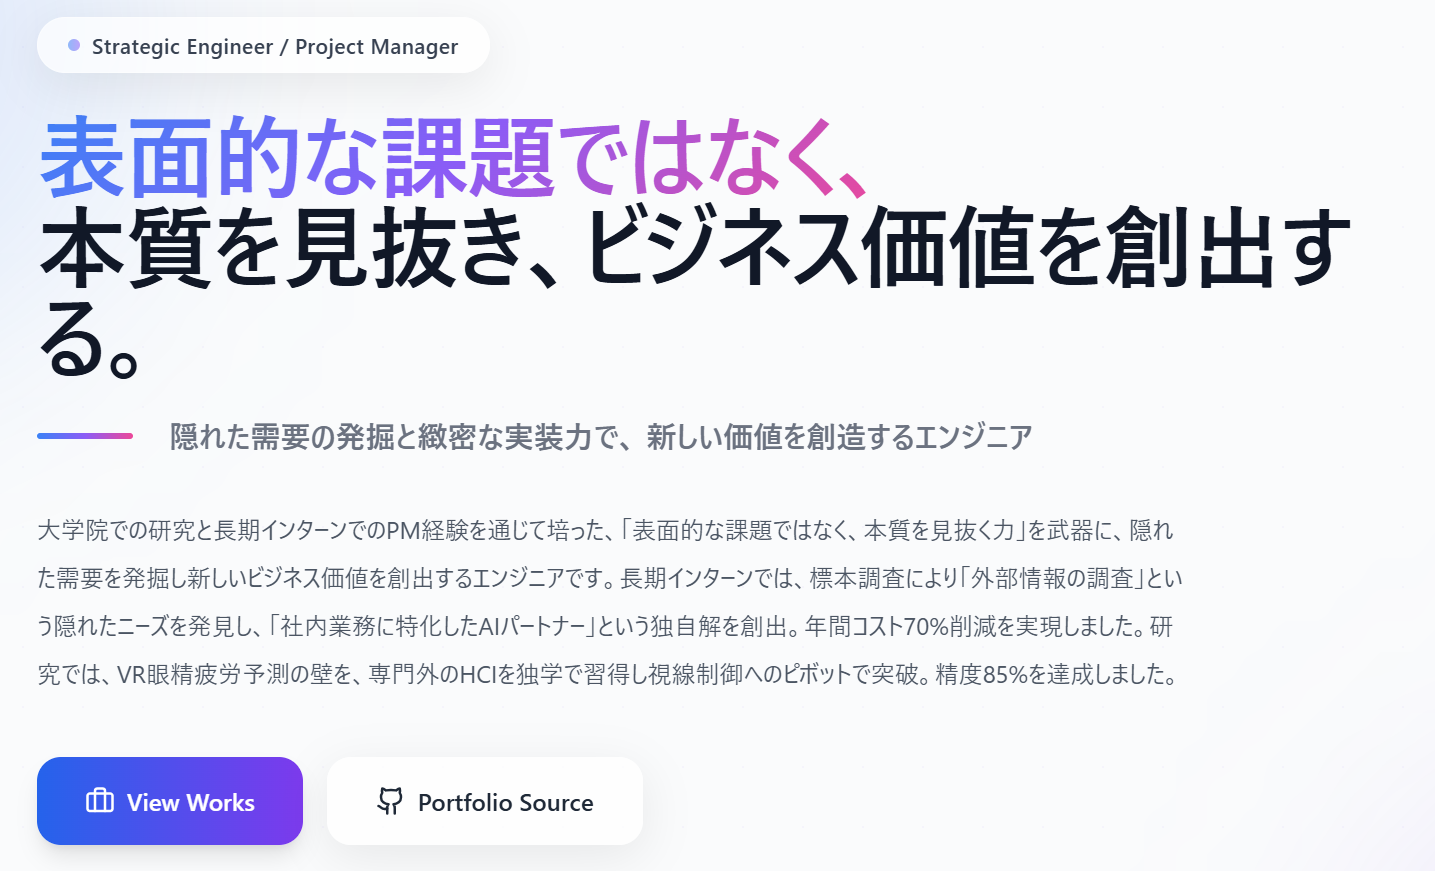
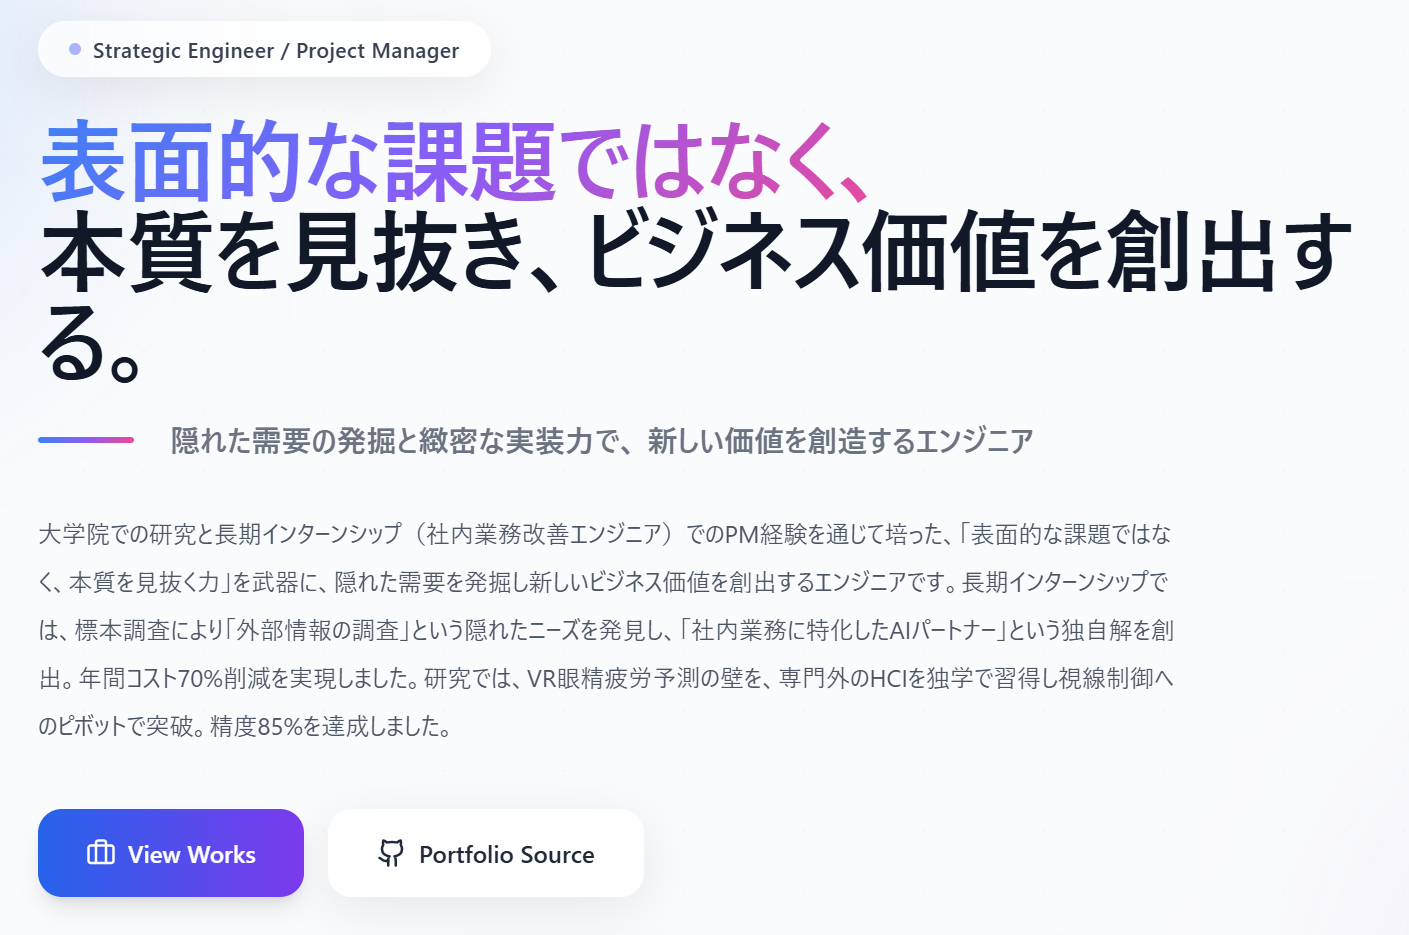
feat: README.mdとApp.jsxの内容を更新
README.mdの見出しやテーブルのフォーマットを改善し、可読性を向上させました。また、App.jsxではGitHubリンクを修正し、自己紹介の内容を最新の情報に更新しました。ポートフォリオデータの整備を行い、より明確な自己アピールを実現しました。

diff --git a/src/App.jsx b/src/App.jsx
@@ -10,12 +10,12 @@ const portfolioData = {
     sub: "隠れた需要の発掘と緻密な実装力で、\n新しい価値を創造するエンジニア"
   },
   social: {
-    github: "https://github.com/takutaku14",
+    github: "https://github.com/takutaku14/portforio-app",
     email: "mailto:your-email@example.com"
   },
   about: {
-    summary: "大学院での研究と長期インターンでのPM経験を通じて培った、「表面的な課題ではなく、本質を見抜く力」を武器に、隠れた需要を発掘し新しいビジネス価値を創出するエンジニアです。長期インターンでは、標本調査により「外部情報の調査」という隠れたニーズを発見し、「社内業務に特化したAIパートナー」という独自解を創出。年間コスト70%削減を実現しました。研究では、VR眼精疲労予測の壁を、専門外のHCIを独学で習得し視線制御へのピボットで突破。精度85%を達成しました。",
-    introduction: "私の原動力は、「表面的な課題ではなく、本質を見抜く力」です。大学院での視線解析の研究では、瞳孔計測の精度限界に直面した際、表面的な解決策（精度向上）ではなく本質的な原因（視線制御の劣化）に着目。専門外のHCIを独学で習得し、アプローチを転換して精度85%を達成しました。長期インターンでは、標本調査により「外部情報の調査」という隠れたニーズを発掘し、独自解の創出でコスト70%削減を実現しました。異なる分野でも、データに基づく仮説検証と論理的な戦略立てで本質を見抜き、確実に結果を出す「没頭力」と「緻密な計画性」を持ちます。",
+    summary: "大学院での研究と長期インターンシップ（社内業務改善エンジニア）でのPM経験を通じて培った、「表面的な課題ではなく、本質を見抜く力」を武器に、隠れた需要を発掘し新しいビジネス価値を創出するエンジニアです。長期インターンシップでは、標本調査により「外部情報の調査」という隠れたニーズを発見し、「社内業務に特化したAIパートナー」という独自解を創出。年間コスト70%削減を実現しました。研究では、VR眼精疲労予測の壁を、専門外のHCIを独学で習得し視線制御へのピボットで突破。精度85%を達成しました。",
+    introduction: "私の原動力は、「表面的な課題ではなく、本質を見抜く力」です。大学院での視線解析の研究では、瞳孔計測の精度限界に直面した際、表面的な解決策（精度向上）ではなく本質的な原因（視線制御の劣化）に着目。専門外のHCIを独学で習得し、アプローチを転換して精度85%を達成しました。長期インターンシップでは、標本調査により「外部情報の調査」という隠れたニーズを発掘し、独自解の創出でコスト70%削減を実現しました。異なる分野でも、データに基づく仮説検証と論理的な戦略立てで本質を見抜き、確実に結果を出す「没頭力」と「緻密な計画性」を持ちます。",
     story: [
       {
         heading: "「没頭力」の原体験：音楽との出会い",
@@ -40,7 +40,7 @@ const portfolioData = {
     values: [
       {
         title: "1. 隠れた需要を発掘する「本質を見抜く力」",
-        description: "長期インターンでは、標本調査により経営層も現場も気づいていなかった「外部情報の調査」という隠れたニーズを発見。「社内業務に特化したAIパートナー」という独自解を創出しました。研究でも、瞳孔計測という表面的な手法ではなく、視線制御という本質に着目してブレークスルーを達成。異なる分野でも、表面的な課題ではなく本質を見抜く力で、新しい価値を創造します。"
+        description: "長期インターンシップでは、標本調査により経営層も現場も気づいていなかった「外部情報の調査」という隠れたニーズを発見。「社内業務に特化したAIパートナー」という独自解を創出しました。研究でも、瞳孔計測という表面的な手法ではなく、視線制御という本質に着目してブレークスルーを達成。異なる分野でも、表面的な課題ではなく本質を見抜く力で、新しい価値を創造します。"
       },
       {
         title: "2. コストと成果にこだわる「ROI視点」",

diff --git a/README.md b/README.md
@@ -24,14 +24,14 @@
 
 ---
 
-## ✨ 30秒でわかる私の強み
+## ✨ 30 秒でわかる私の強み
 
 私の原動力は、**「表面的な課題ではなく、本質を見抜く力」**です。標本調査やデータ分析を通じて隠れた需要を発掘し、独自の解決策でビジネス価値を創出します。
 
-| 🎯 成果 | 📝 概要 |
-|:---|:---|
-| **コスト70%削減** | 標本調査で「外部情報の調査」という隠れたニーズを発見し、「社内業務に特化したAIパートナー」という独自解を創出 |
-| **業務効率50倍向上** | 画像処理プラットフォームの開発により、1件10分の作業を12秒に短縮 |
+| 🎯 成果                | 📝 概要                                                                                                        |
+| :--------------------- | :------------------------------------------------------------------------------------------------------------- |
+| **コスト 70%削減**     | 標本調査で「外部情報の調査」という隠れたニーズを発見し、「社内業務に特化した AI パートナー」という独自解を創出 |
+| **業務効率 50 倍向上** | 画像処理プラットフォームの開発により、1 件 10 分の作業を 12 秒に短縮                                           |
 
 > 💡 **表面的な解決策ではなく、データに基づく仮説検証と論理的な戦略立てで本質を見抜き、確実に結果を出します。**
 
@@ -39,29 +39,29 @@
 
 ---
 
-## 🎨 デザインへのこだわり — プロ品質のUI/UX設計
+## 🎨 デザインへのこだわり — プロ品質の UI/UX 設計
 
 私はまず、**Apple Human Interface Guidelines（HIG）** の設計哲学をベースに、あらゆるプロジェクトで再利用可能な汎用デザイン基盤 **[Universal Design Base Framework](DSIGN_BASE.md)** を策定しました。
 
-そして、AIエージェントプロジェクトにおいてこのデザインベースをさらに応用し、プロジェクト専用のデザインルールを作成。一貫性のある高品質なUIを構築しました。
+そして、AI エージェントプロジェクトにおいてこのデザインベースをさらに応用し、プロジェクト専用のデザインルールを作成。一貫性のある高品質な UI を構築しました。
 
 ### なぜデザインルールを作成したのか？
 
 チーム開発において「デザインの属人化」は大きな課題です。私は以下の問題を解決するため、体系的なデザイン基盤を整備しました：
 
-- ❌ 担当者によってUIのトーンがバラバラ
+- ❌ 担当者によって UI のトーンがバラバラ
 - ❌ 「なんとなく」の感覚的なピクセル調整
 - ❌ ダークモード対応時に色の定義が破綻
 
 ### 策定したデザインルールの特徴
 
-| 原則 | 内容 | ユーザーへのメリット |
-|:---|:---|:---|
-| **8pt グリッドシステム** | すべての余白・サイズを8の倍数で統一 | 視覚的な心地よさと整理された印象 |
-| **セマンティックカラー** | 「青=#3B82F6」ではなく「primary=ブランドカラー」と役割で定義 | ダークモードでも自然な配色 |
-| **WCAG 2.1 AA準拠** | 文字と背景のコントラスト比を保証 | 誰でも読みやすいテキスト |
-| **アニメーションの原則** | ユーザー操作から100ms以内にフィードバック開始 | 「動作が軽い」と感じる快適な操作感 |
-| **タップ領域の確保** | ボタン等のタッチ領域を最低44x44px保証 | スマホでもストレスなく操作可能 |
+| 原則                     | 内容                                                         | ユーザーへのメリット               |
+| :----------------------- | :----------------------------------------------------------- | :--------------------------------- |
+| **8pt グリッドシステム** | すべての余白・サイズを 8 の倍数で統一                        | 視覚的な心地よさと整理された印象   |
+| **セマンティックカラー** | 「青=#3B82F6」ではなく「primary=ブランドカラー」と役割で定義 | ダークモードでも自然な配色         |
+| **WCAG 2.1 AA 準拠**     | 文字と背景のコントラスト比を保証                             | 誰でも読みやすいテキスト           |
+| **アニメーションの原則** | ユーザー操作から 100ms 以内にフィードバック開始              | 「動作が軽い」と感じる快適な操作感 |
+| **タップ領域の確保**     | ボタン等のタッチ領域を最低 44x44px 保証                      | スマホでもストレスなく操作可能     |
 
 > 📄 **詳細は [DSIGN_BASE.md](DSIGN_BASE.md) をご覧ください。**
 >
@@ -83,13 +83,13 @@
 
 ## 🛠 技術スタック (Tech Stack)
 
-| Category | Technology | Why I chose it |
-| :--- | :--- | :--- |
-| **Frontend** | React 19 | コンポーネント指向による再利用性と状態管理の効率化のため |
-| **Build Tool** | Vite 7 | 高速なHMR（Hot Module Replacement）による開発体験の向上と、ビルド最適化のため |
-| **Styling** | Tailwind CSS | クラス名管理のコスト削減と、デザインシステム（Apple風UI）の迅速な構築のため |
-| **Icons** | Lucide React | 軽量で統一感のあるSVGアイコンセットを採用し、視認性を確保 |
-| **Deploy** | GitHub Pages | CI/CDパイプライン（GitHub Actions）との親和性を考慮 |
+| Category       | Technology   | Why I chose it                                                                 |
+| :------------- | :----------- | :----------------------------------------------------------------------------- |
+| **Frontend**   | React 19     | コンポーネント指向による再利用性と状態管理の効率化のため                       |
+| **Build Tool** | Vite 7       | 高速な HMR（Hot Module Replacement）による開発体験の向上と、ビルド最適化のため |
+| **Styling**    | Tailwind CSS | クラス名管理のコスト削減と、デザインシステム（Apple 風 UI）の迅速な構築のため  |
+| **Icons**      | Lucide React | 軽量で統一感のある SVG アイコンセットを採用し、視認性を確保                    |
+| **Deploy**     | GitHub Pages | CI/CD パイプライン（GitHub Actions）との親和性を考慮                           |
 
 <br />
 
@@ -109,17 +109,17 @@
 ユーザー体験を損なわないよう、徹底的な軽量化を行っています。
 
 - **Intersection Observer API:** スクロール連動アニメーションにおいて、監視ロジックを最適化し、要素が表示された瞬間に監視を解除（`disconnect`）することでメモリリークと不要な再レンダリングを防止しています。
-- **`will-change` プロパティ:** CSSハードウェアアクセラレーションを適切に有効化し、アニメーション時のGPU負荷を最適化しました。
+- **`will-change` プロパティ:** CSS ハードウェアアクセラレーションを適切に有効化し、アニメーション時の GPU 負荷を最適化しました。
 
-### 2. コンポーネント設計とUI/UX (Architecture & UX)
+### 2. コンポーネント設計と UI/UX (Architecture & UX)
 
 - **Apple Human Interface Guidelines** を意識した、清潔感と信頼感のあるデザインシステムを構築。
-- **Atomic Design** の思想を取り入れた再利用可能なコンポーネント設計（Card, Badge, SectionHeader等）。
+- **Atomic Design** の思想を取り入れた再利用可能なコンポーネント設計（Card, Badge, SectionHeader 等）。
 - 実績画像の閲覧体験を向上させるため、**カスタムカルーセル（スライドショー）機能**をモーダル内に実装。
 
 ### 3. アクセシビリティ (a11y)
 
-- セマンティックなHTML構造（`<main>`, `<section>`, `aria-label`）を意識。
+- セマンティックな HTML 構造（`<main>`, `<section>`, `aria-label`）を意識。
 - 十分なコントラスト比の確保と、キーボード操作への配慮。
 
 </details>
